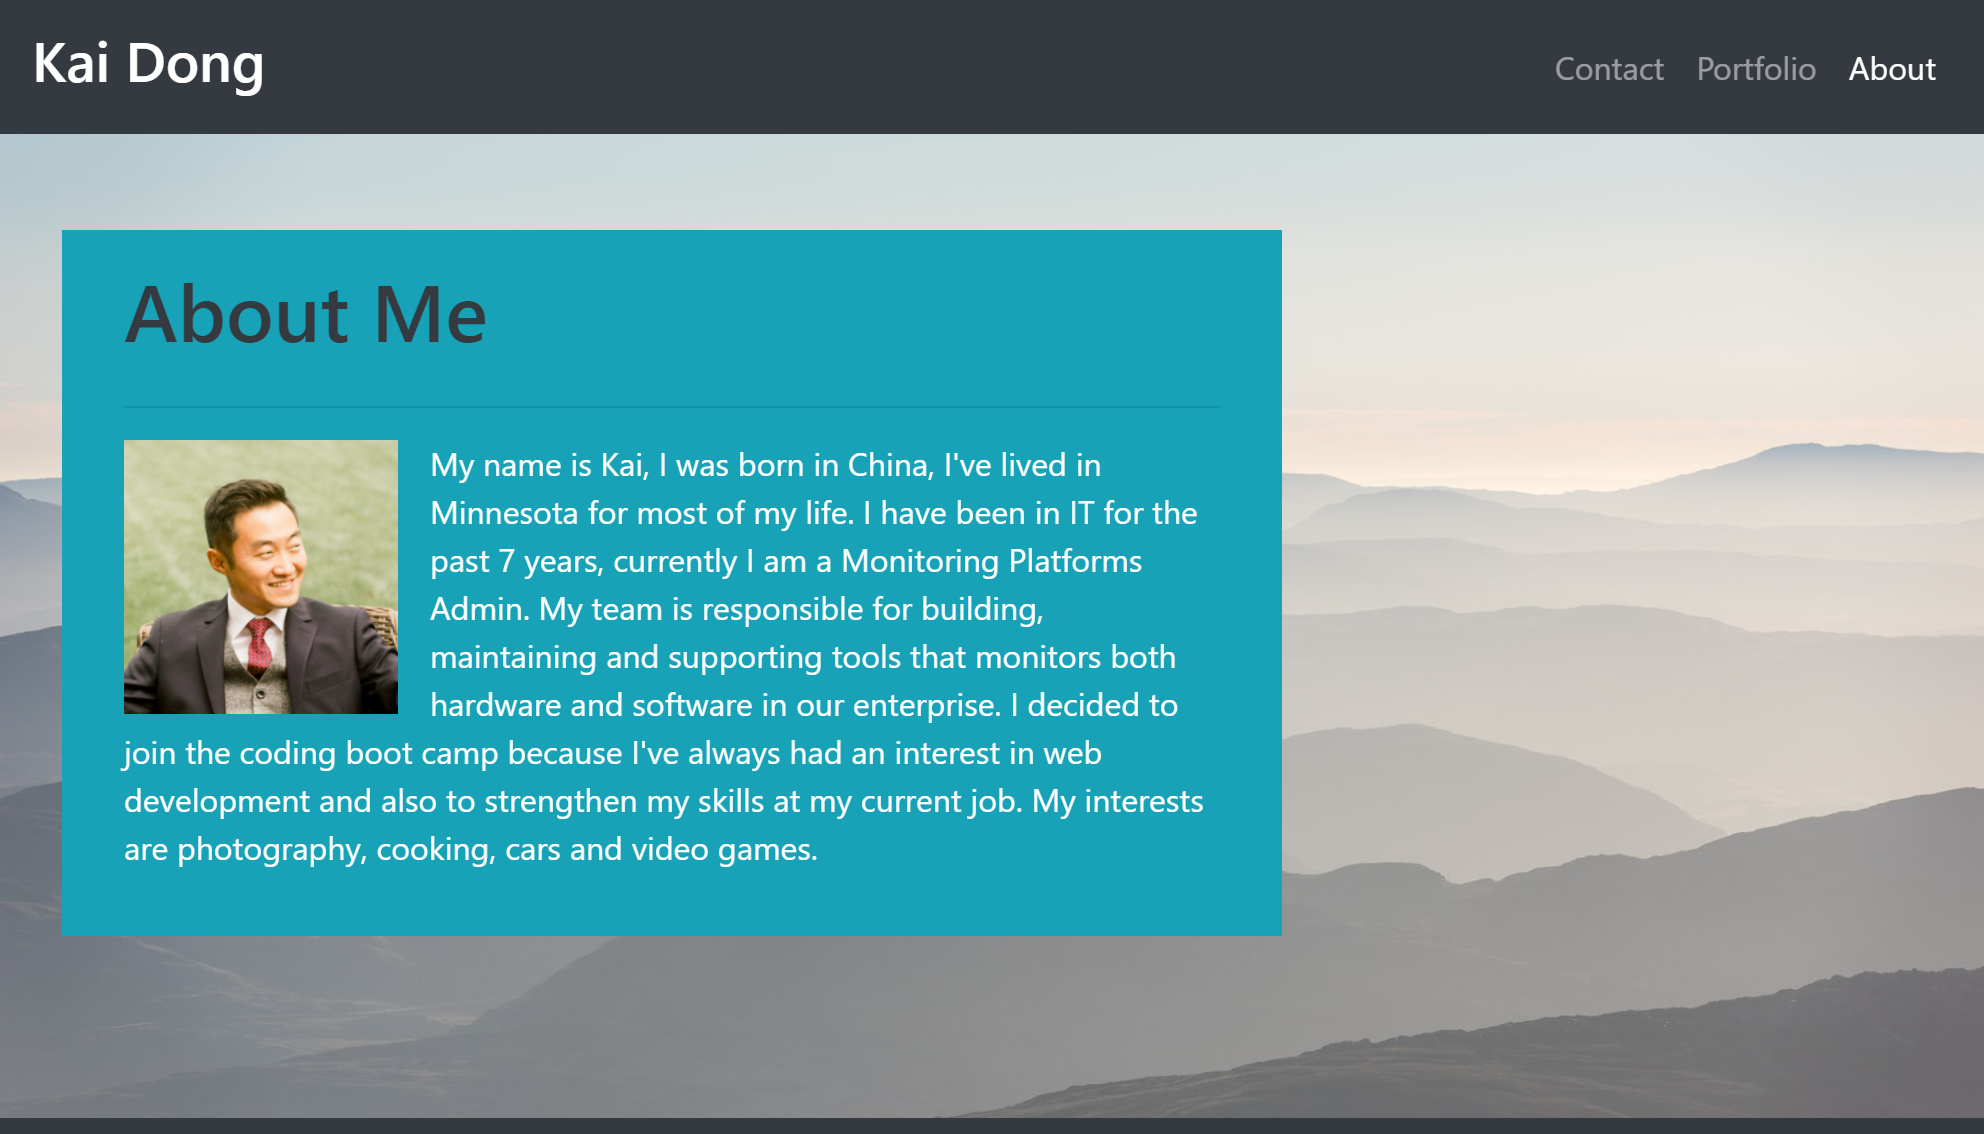
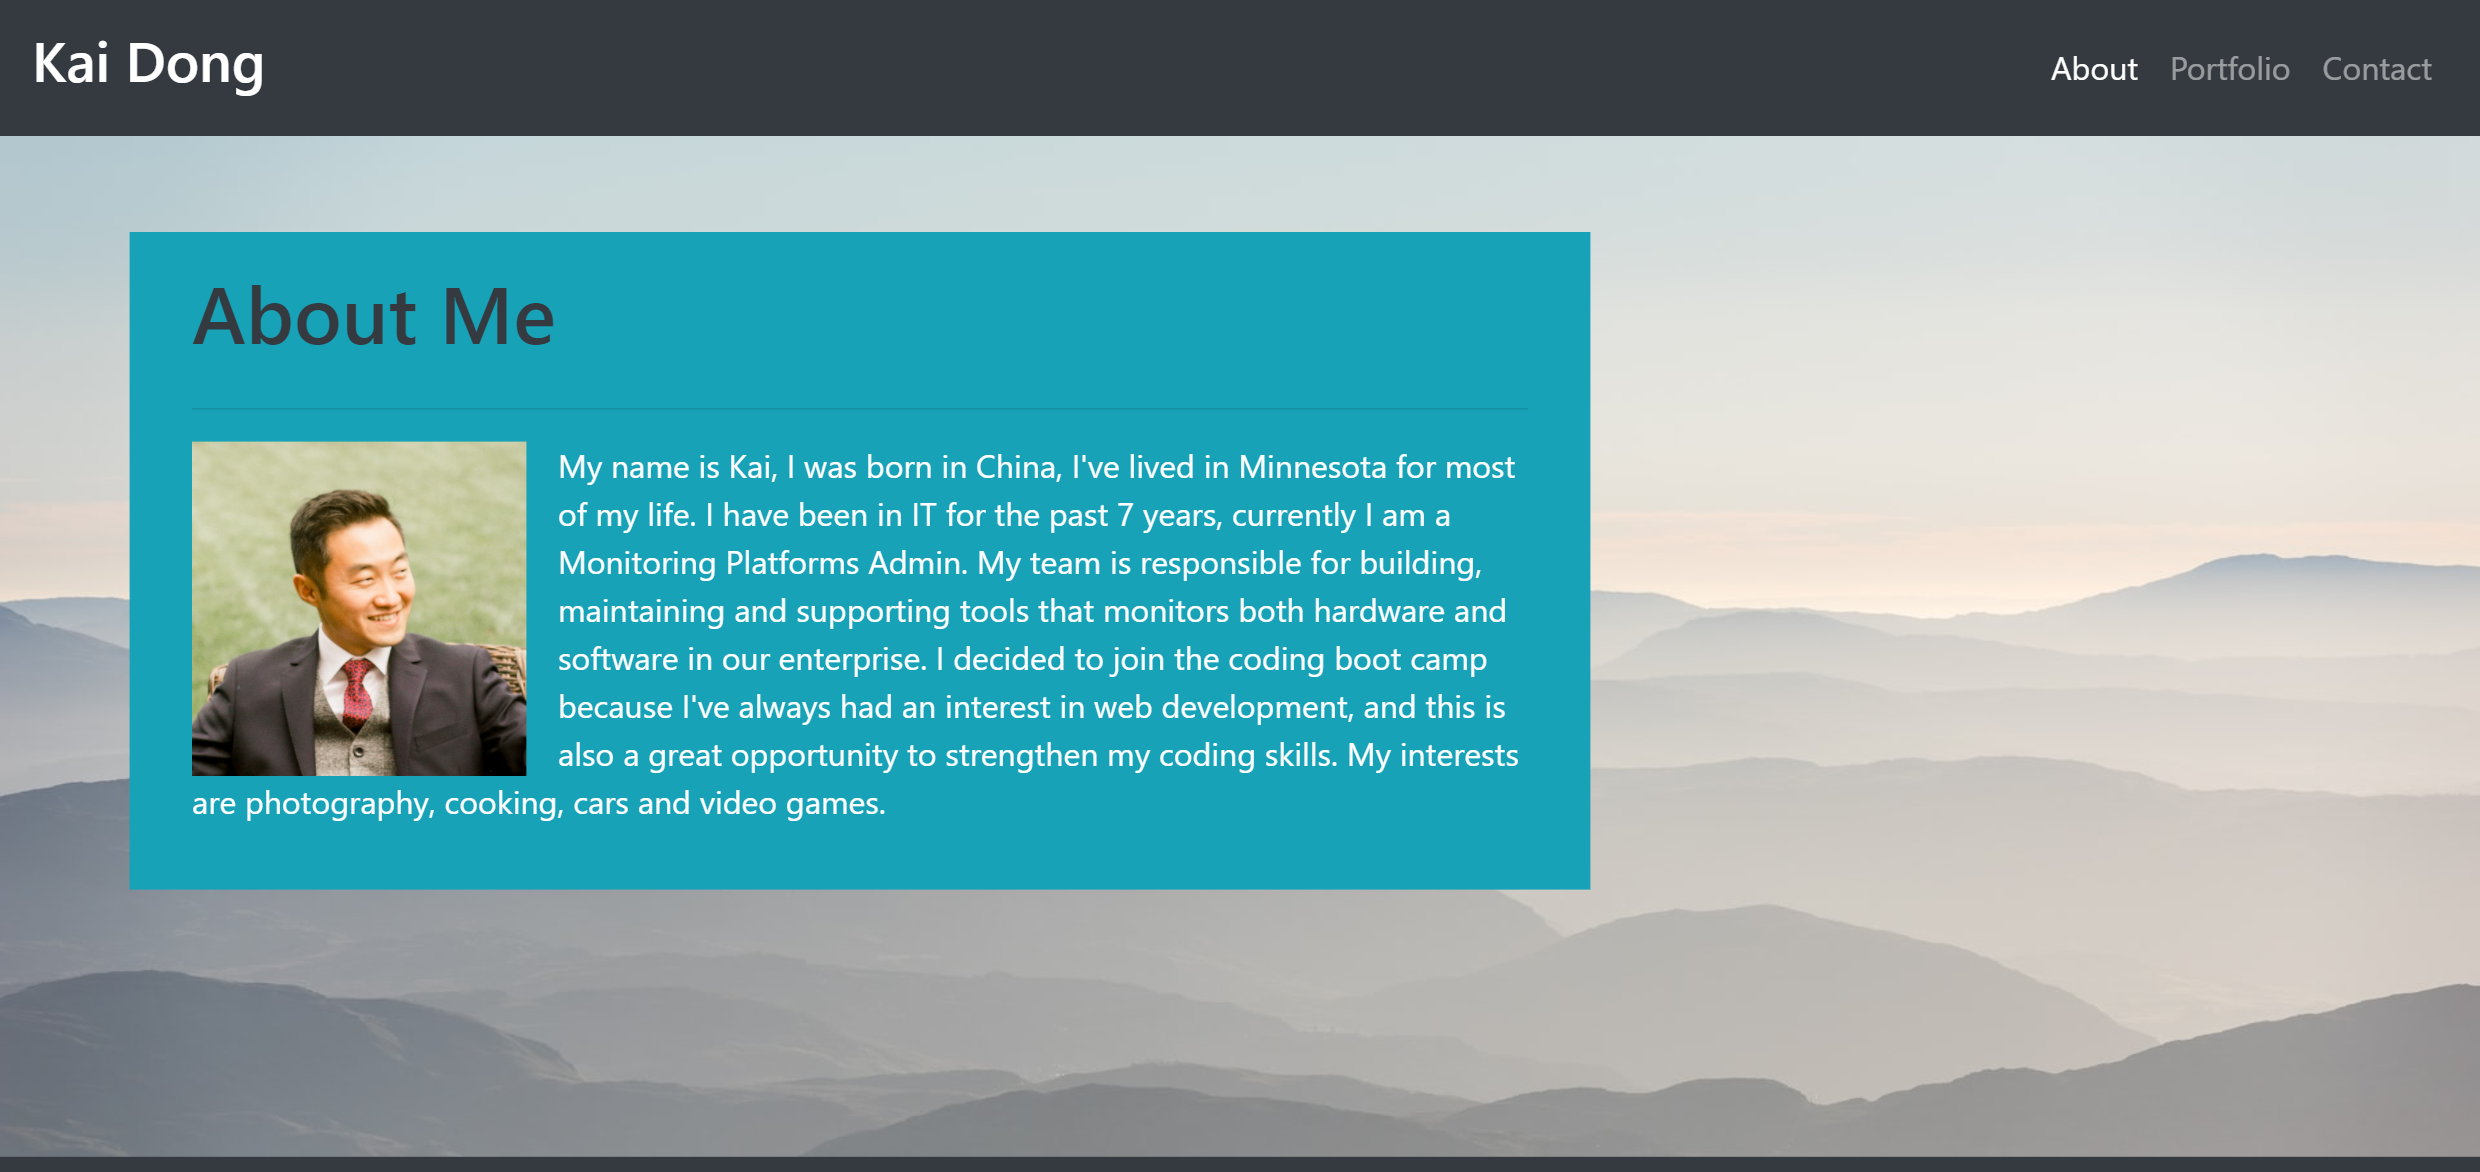
Fixed issue with background not covering the entire viewport. Updated screenshots. Updated README.

diff --git a/contact.html b/contact.html
@@ -26,13 +26,13 @@
         <div class="collapse navbar-collapse" id="navbarText">
             <ul class="navbar-nav ml-auto">
                 <li class="nav-item">
-                    <a class="nav-link active" href="contact.html">Contact</a>
+                    <a class="nav-link" href="index.html">About</a>
                 </li>
                 <li class="nav-item">
                     <a class="nav-link" href="portfolio.html">Portfolio</a>
                 </li>
                 <li class="nav-item">
-                    <a class="nav-link" href="index.html">About</a>
+                    <a class="nav-link active" href="contact.html">Contact</a>
                 </li>
             </ul>
         </div>
@@ -91,7 +91,7 @@
                                     </div>
                                 </div>
                             </div>
-                            
+
                             <div class="form-group">
                                 <label for="Message">Message</label>
                                 <textarea type="text" class="form-control" id="Message"

diff --git a/portfolio.html b/portfolio.html
@@ -23,13 +23,13 @@
         <div class="collapse navbar-collapse" id="navbarText">
             <ul class="navbar-nav ml-auto">
                 <li class="nav-item">
-                    <a class="nav-link" href="contact.html">Contact</a>
+                    <a class="nav-link" href="index.html">About</a>
                 </li>
                 <li class="nav-item">
                     <a class="nav-link active" href="portfolio.html">Portfolio</a>
                 </li>
                 <li class="nav-item">
-                    <a class="nav-link" href="index.html">About</a>
+                    <a class="nav-link" href="contact.html">Contact</a>
                 </li>
             </ul>
         </div>
@@ -76,6 +76,7 @@
         </div>
     </section>
 
+    <!-- Footer -->
     <footer class="footer fixed-bottom mt-5 py-1 bg-dark">
         <div class="container">
             <!-- <p class="text-center text-muted">Add something here later</p> -->

diff --git a/index.html b/index.html
@@ -23,13 +23,13 @@
         <div class="collapse navbar-collapse" id="navbarText">
             <ul class="navbar-nav ml-auto">
                 <li class="nav-item">
-                    <a class="nav-link" href="contact.html">Contact</a>
+                    <a class="nav-link active" href="index.html">About</a>
                 </li>
                 <li class="nav-item">
                     <a class="nav-link" href="portfolio.html">Portfolio</a>
                 </li>
                 <li class="nav-item">
-                    <a class="nav-link active" href="index.html">About</a>
+                    <a class="nav-link" href="contact.html">Contact</a>
                 </li>
             </ul>
         </div>

diff --git a/assets/css/style.css b/assets/css/style.css
@@ -3,6 +3,7 @@
 /* Background Image */
 #background {
 	background-image: url('../Images/background.jpg');
+	background-attachment: fixed;
 	background-size: cover;
 }
 

diff --git a/README.md b/README.md
@@ -1,10 +1,30 @@
 # Responsive Portfolio
 
 ### Overview
+Utilize bootstrap as the main source of CSS to create a responsive portfolio page.
 
+### Responsive Screenshots
 
-### Solution
-
+At 992px
+![Image](./assets/Images/index_992.png "AboutMe992")
+![Image](./assets/Images/portfolio_992.png "Porfolio992")
+![Image](./assets/Images/contact_992.png "Contact992")
+<br>
+<br>
+At 768px
+![Image](./assets/Images/index_768.png "AboutMe768")
+![Image](./assets/Images/portfolio_768.png "Porfolio768")
+![Image](./assets/Images/contact_768.png "Contact768")
+<br>
+<br>
+At 400px
+![Image](./assets/Images/index_400.png "AboutMe400")
+![Image](./assets/Images/portfolio_400.png "Porfolio400")
+![Image](./assets/Images/contact_400.png "Contact400")
+<br>
+![Image](https://img.shields.io/badge/Languages-html%20%7C%20css%20-yellow)
+<br>
+[Portoflio Web Page Link](https://kaidong-chr.github.io/HW2_Responsive_Portfolio//)
 
 ### Installation
 
@@ -25,3 +45,4 @@ You can also fork or download from the repo, if you prefer to view or edit this 
 
 ### License
 
+Copyright © 2020 Kai Dong
